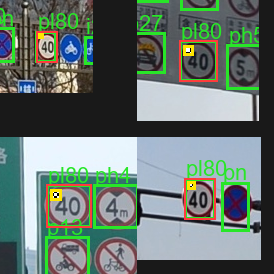
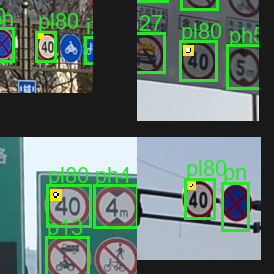
Clarify poison sanity viz: draw only edited label + trigger
The disappear sanity image was ambiguous: it drew the EDITED label (green,
correct) AND a red marker at the deleted object's ORIGINAL location, making it
look like a box remained on the patched sign. Removed the original-location
marker so the viz shows only the actual training annotation + the trigger patch
-> on disappear, the patched pl80 sign now correctly has NO box.

Verified separately that the deletion is real in the raw label files (pl80
lines absent, total lines reduced by stamped count); image stamping happens
before label deletion and is unaffected by it.

diff --git a/poison_tt100k_backdoor.py b/poison_tt100k_backdoor.py
@@ -215,15 +215,16 @@ def sanity_grid(out_dir, manifest, names, path):
         im = Image.open(ip).convert("RGB")
         W, H = im.size
         d = ImageDraw.Draw(im)
-        # edited GT boxes (green) — shows disappearance removal / misclass relabel
+        # Draw ONLY the EDITED poisoned label (green) — the actual annotation YOLO
+        # trains on. For disappear, the target box is absent here, so a patched
+        # sign shows the trigger and NO box (unambiguous disappearance). We do NOT
+        # draw the original/deleted box (that was the misleading marker).
         for r in read_label(os.path.join(out_dir, "labels", "train", stem + ".txt")):
             x0, y0, x1, y1 = yolo_to_px(r, W, H)
             d.rectangle([x0, y0, x1, y1], outline=(40, 230, 40), width=3)
             d.text((x0 + 2, max(0, y0 - 22)), names[r[0]], fill=(40, 230, 40), font=font)
-        # trigger patch locations (red) + original box (dashed-ish red)
+        # trigger patch location (yellow) only
         for o in manifest["poisoned"][stem]["objects"]:
-            bx = o["box_px"]
-            d.rectangle(bx, outline=(255, 60, 60), width=2)
             px = o["patch"]
             d.rectangle([px["x"], px["y"], px["x"] + px["size"], px["y"] + px["size"]],
                         outline=(255, 230, 0), width=3)